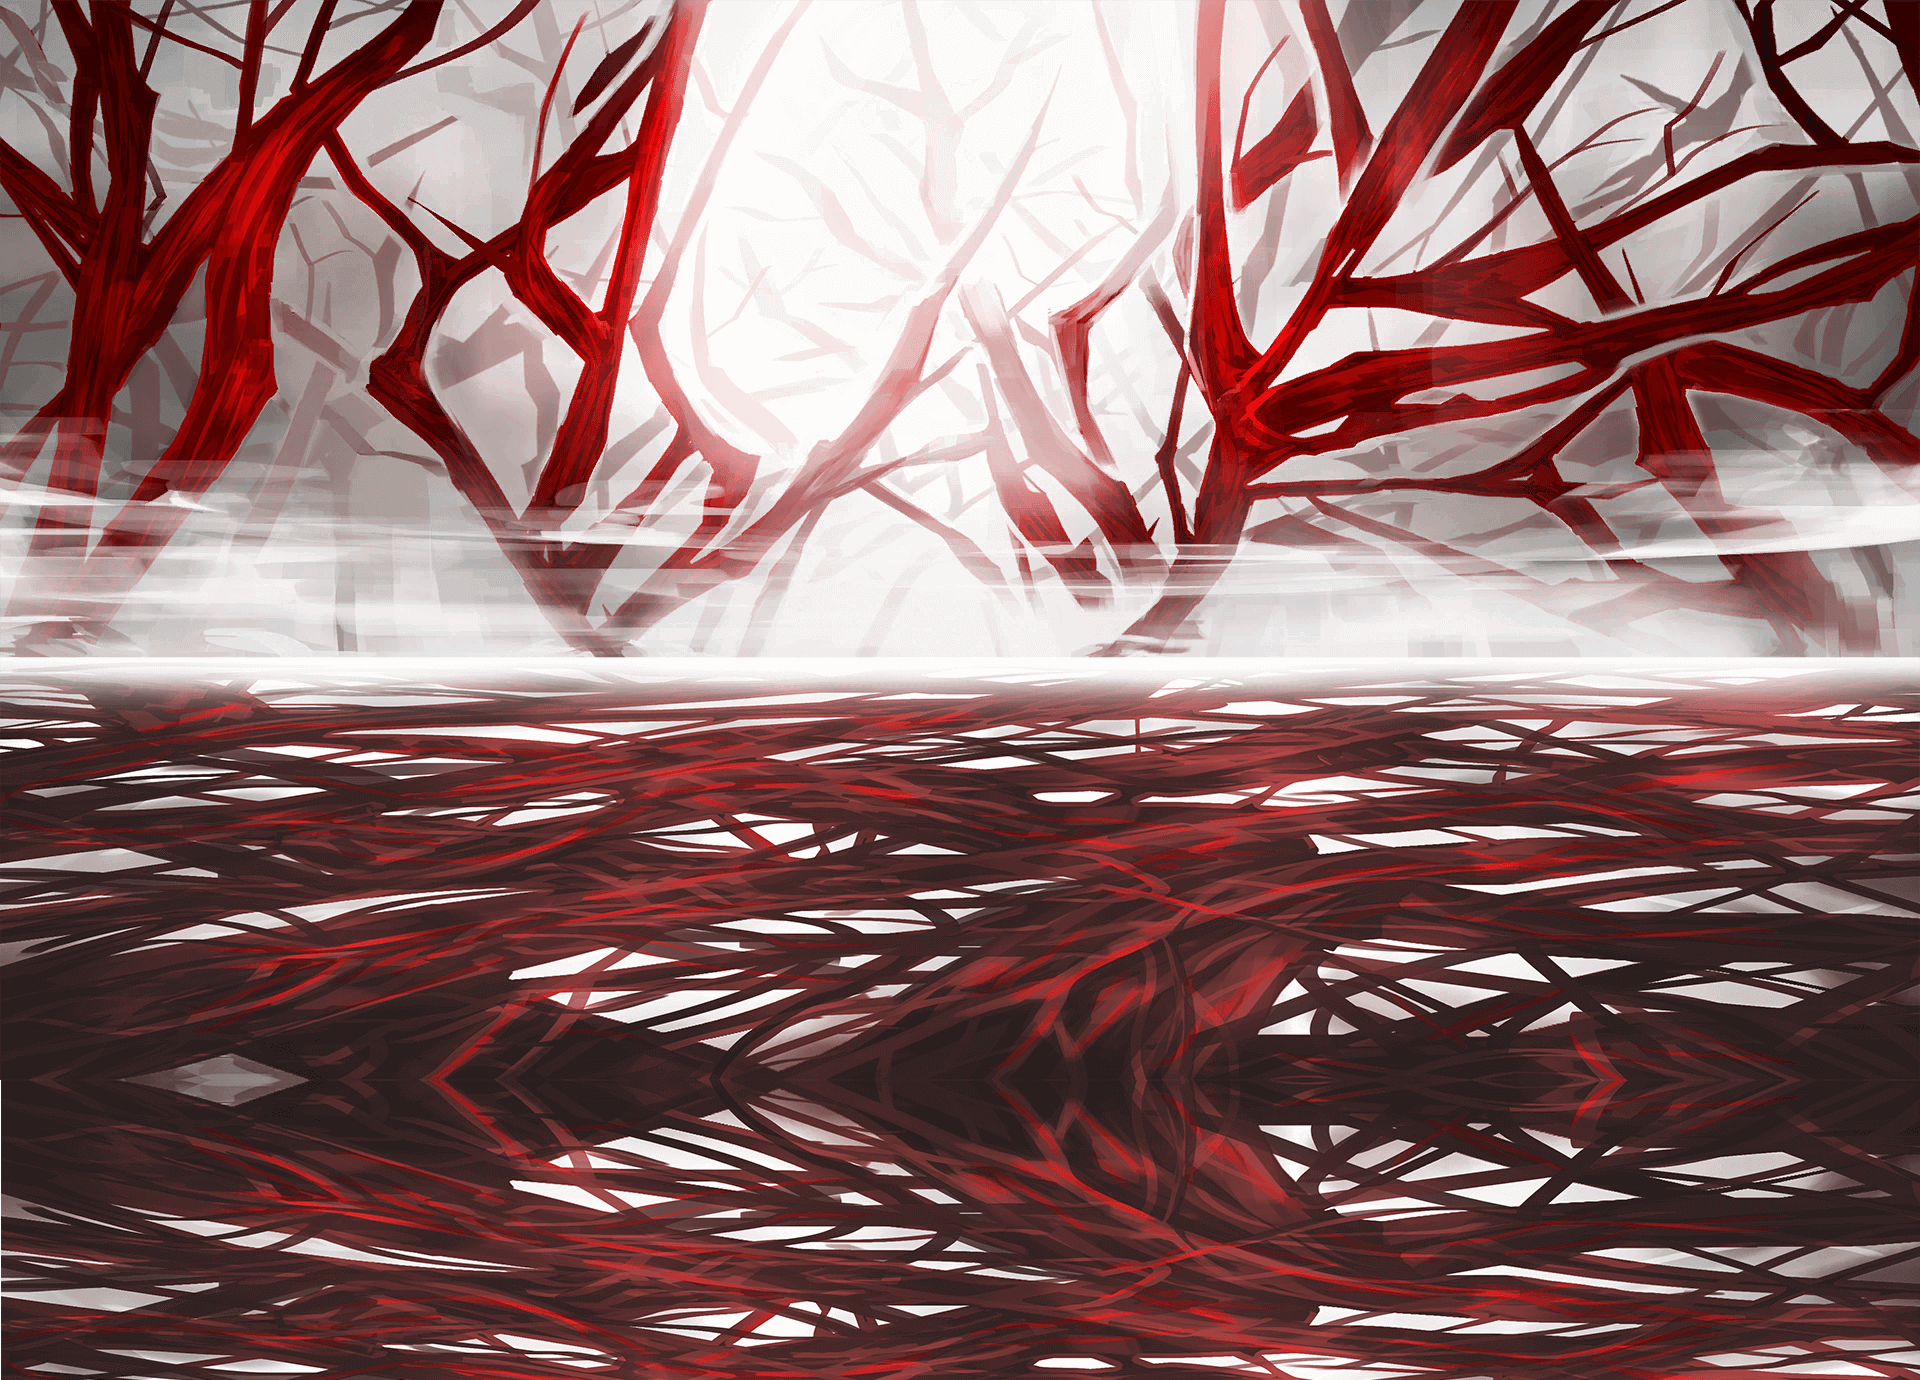
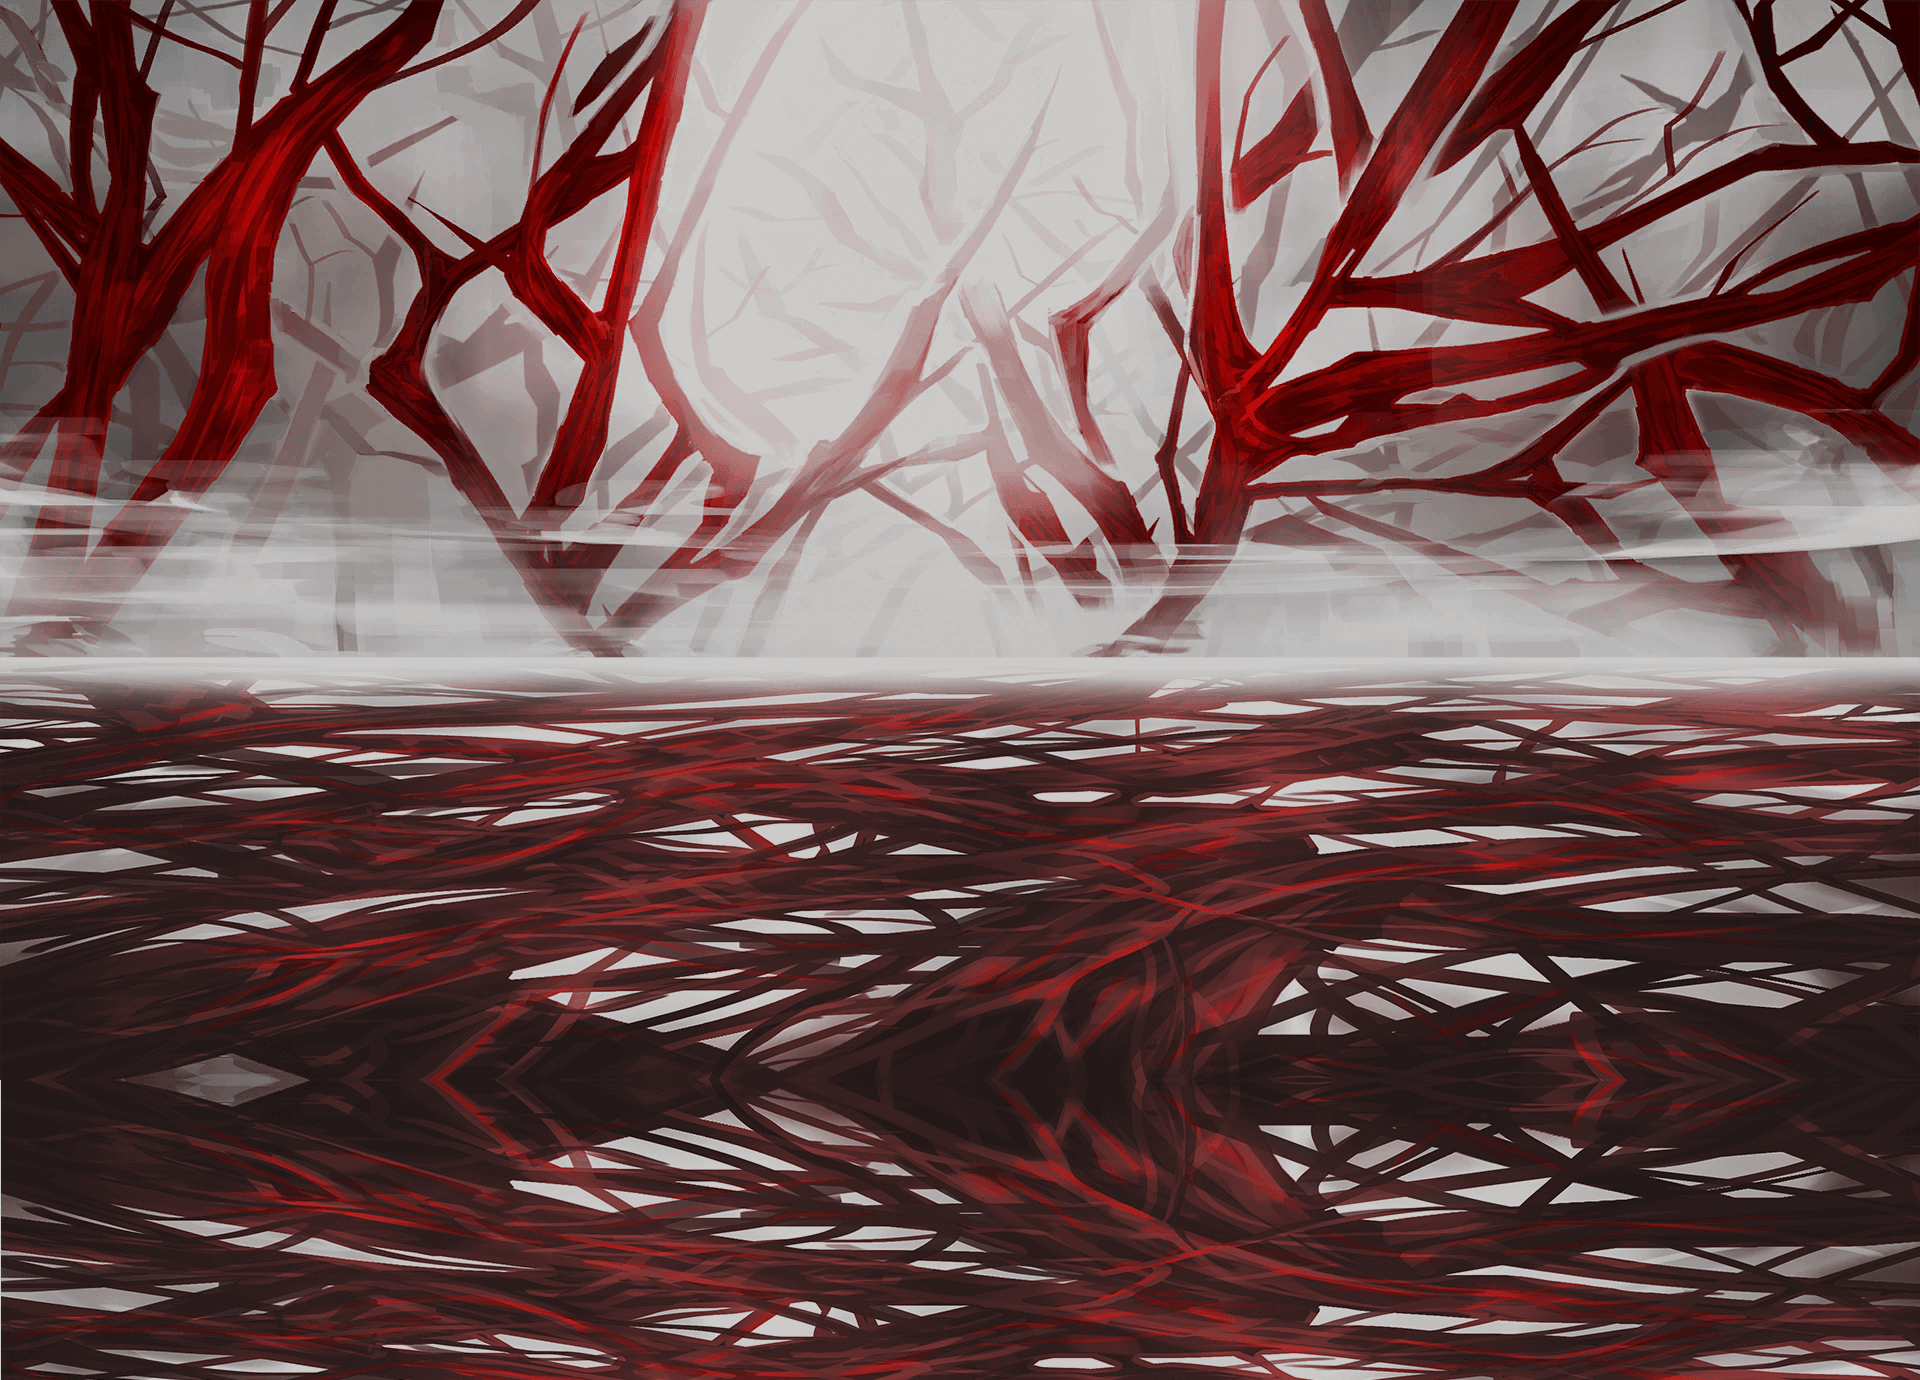
fix regret with thumbscrew and darken more backgrounds

diff --git a/Ruina2Code/Cards/EGO/Act1/Regret.cs b/Ruina2Code/Cards/EGO/Act1/Regret.cs
@@ -11,7 +11,7 @@ public class Regret() : EGOCard(2,
     TargetType.AnyEnemy)
 {
     protected override IEnumerable<DynamicVar> CanonicalVars => [new DamageVar(13, ValueProp.Move),
-        new CalculationBaseVar(0M),
+        new CalculationBaseVar(1M),
         new CalculationExtraVar(1M),
         new CalculatedHitCountVar("CalculatedHits").WithMultiplier((card, _) => PileType.Hand.GetPile(card.Owner).Cards.Count(e => e.Type == CardType.Curse || e.Type == CardType.Status))];
     public override IEnumerable<CardKeyword> CanonicalKeywords => [CardKeyword.Retain];
@@ -20,7 +20,7 @@ public class Regret() : EGOCard(2,
         PlayerChoiceContext choiceContext,
         CardPlay play)
     {
-        await CommonActions.CardAttack(this, play, (int) ((CalculatedVar) DynamicVars["CalculatedHits"]).Calculate(play.Target) + 1).Execute(choiceContext);
+        await CommonActions.CardAttack(this, play, (int) ((CalculatedVar) DynamicVars["CalculatedHits"]).Calculate(play.Target)).Execute(choiceContext);
     }
 
     protected override void OnUpgrade()
